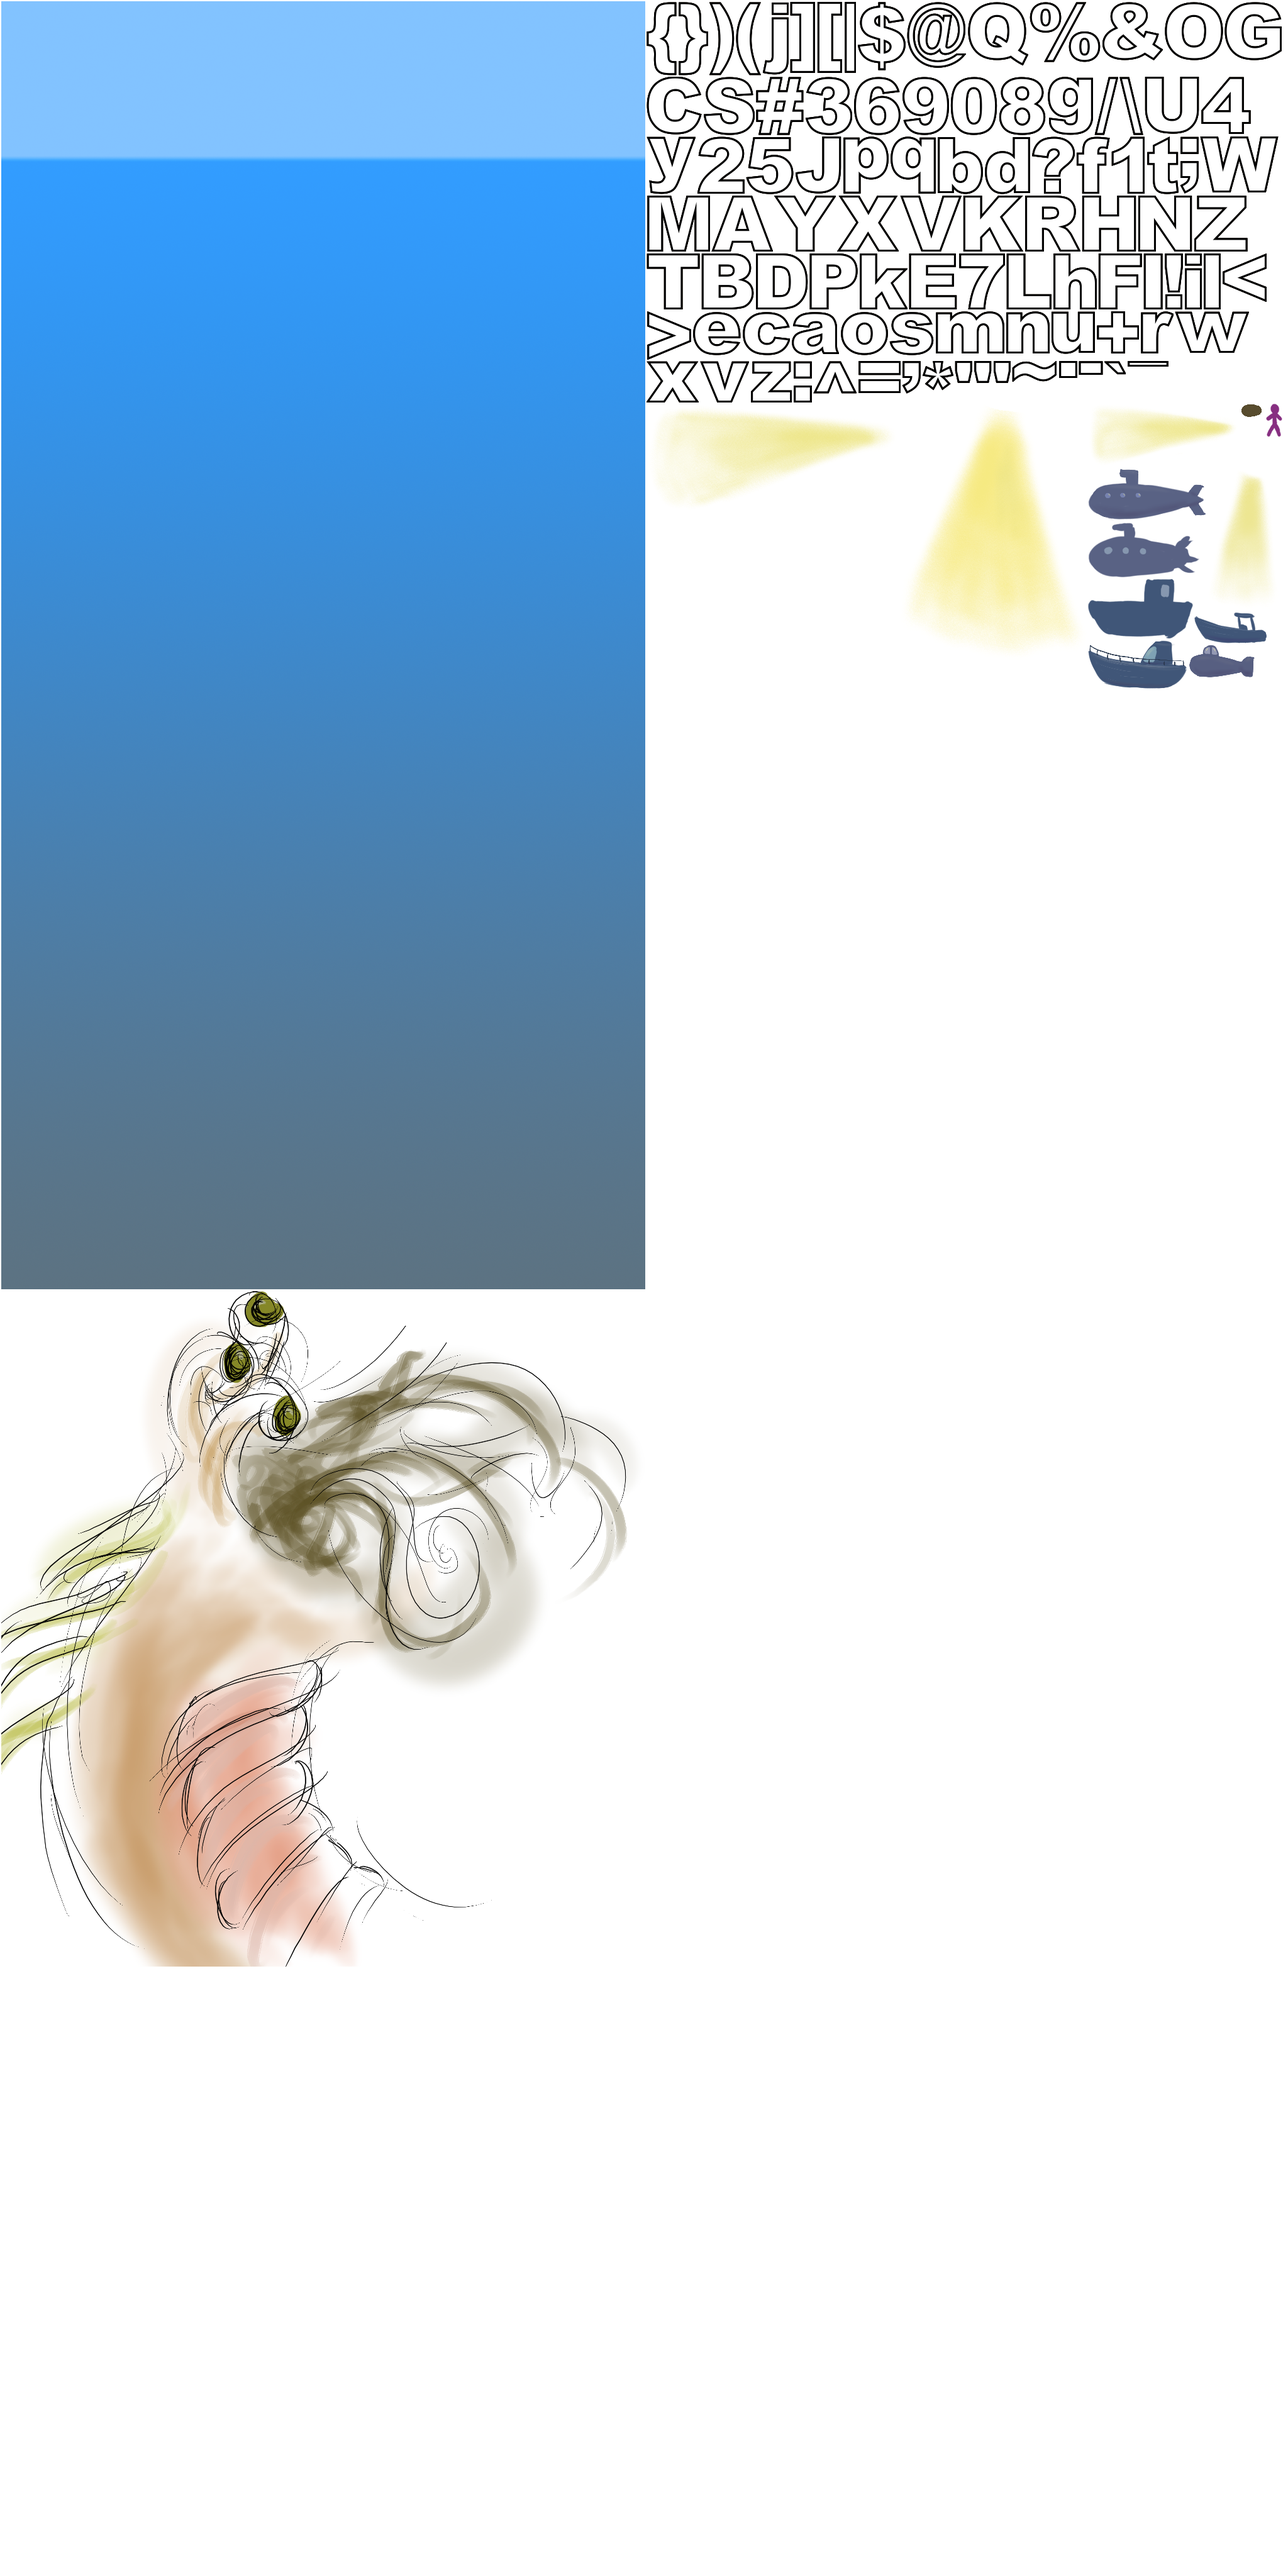
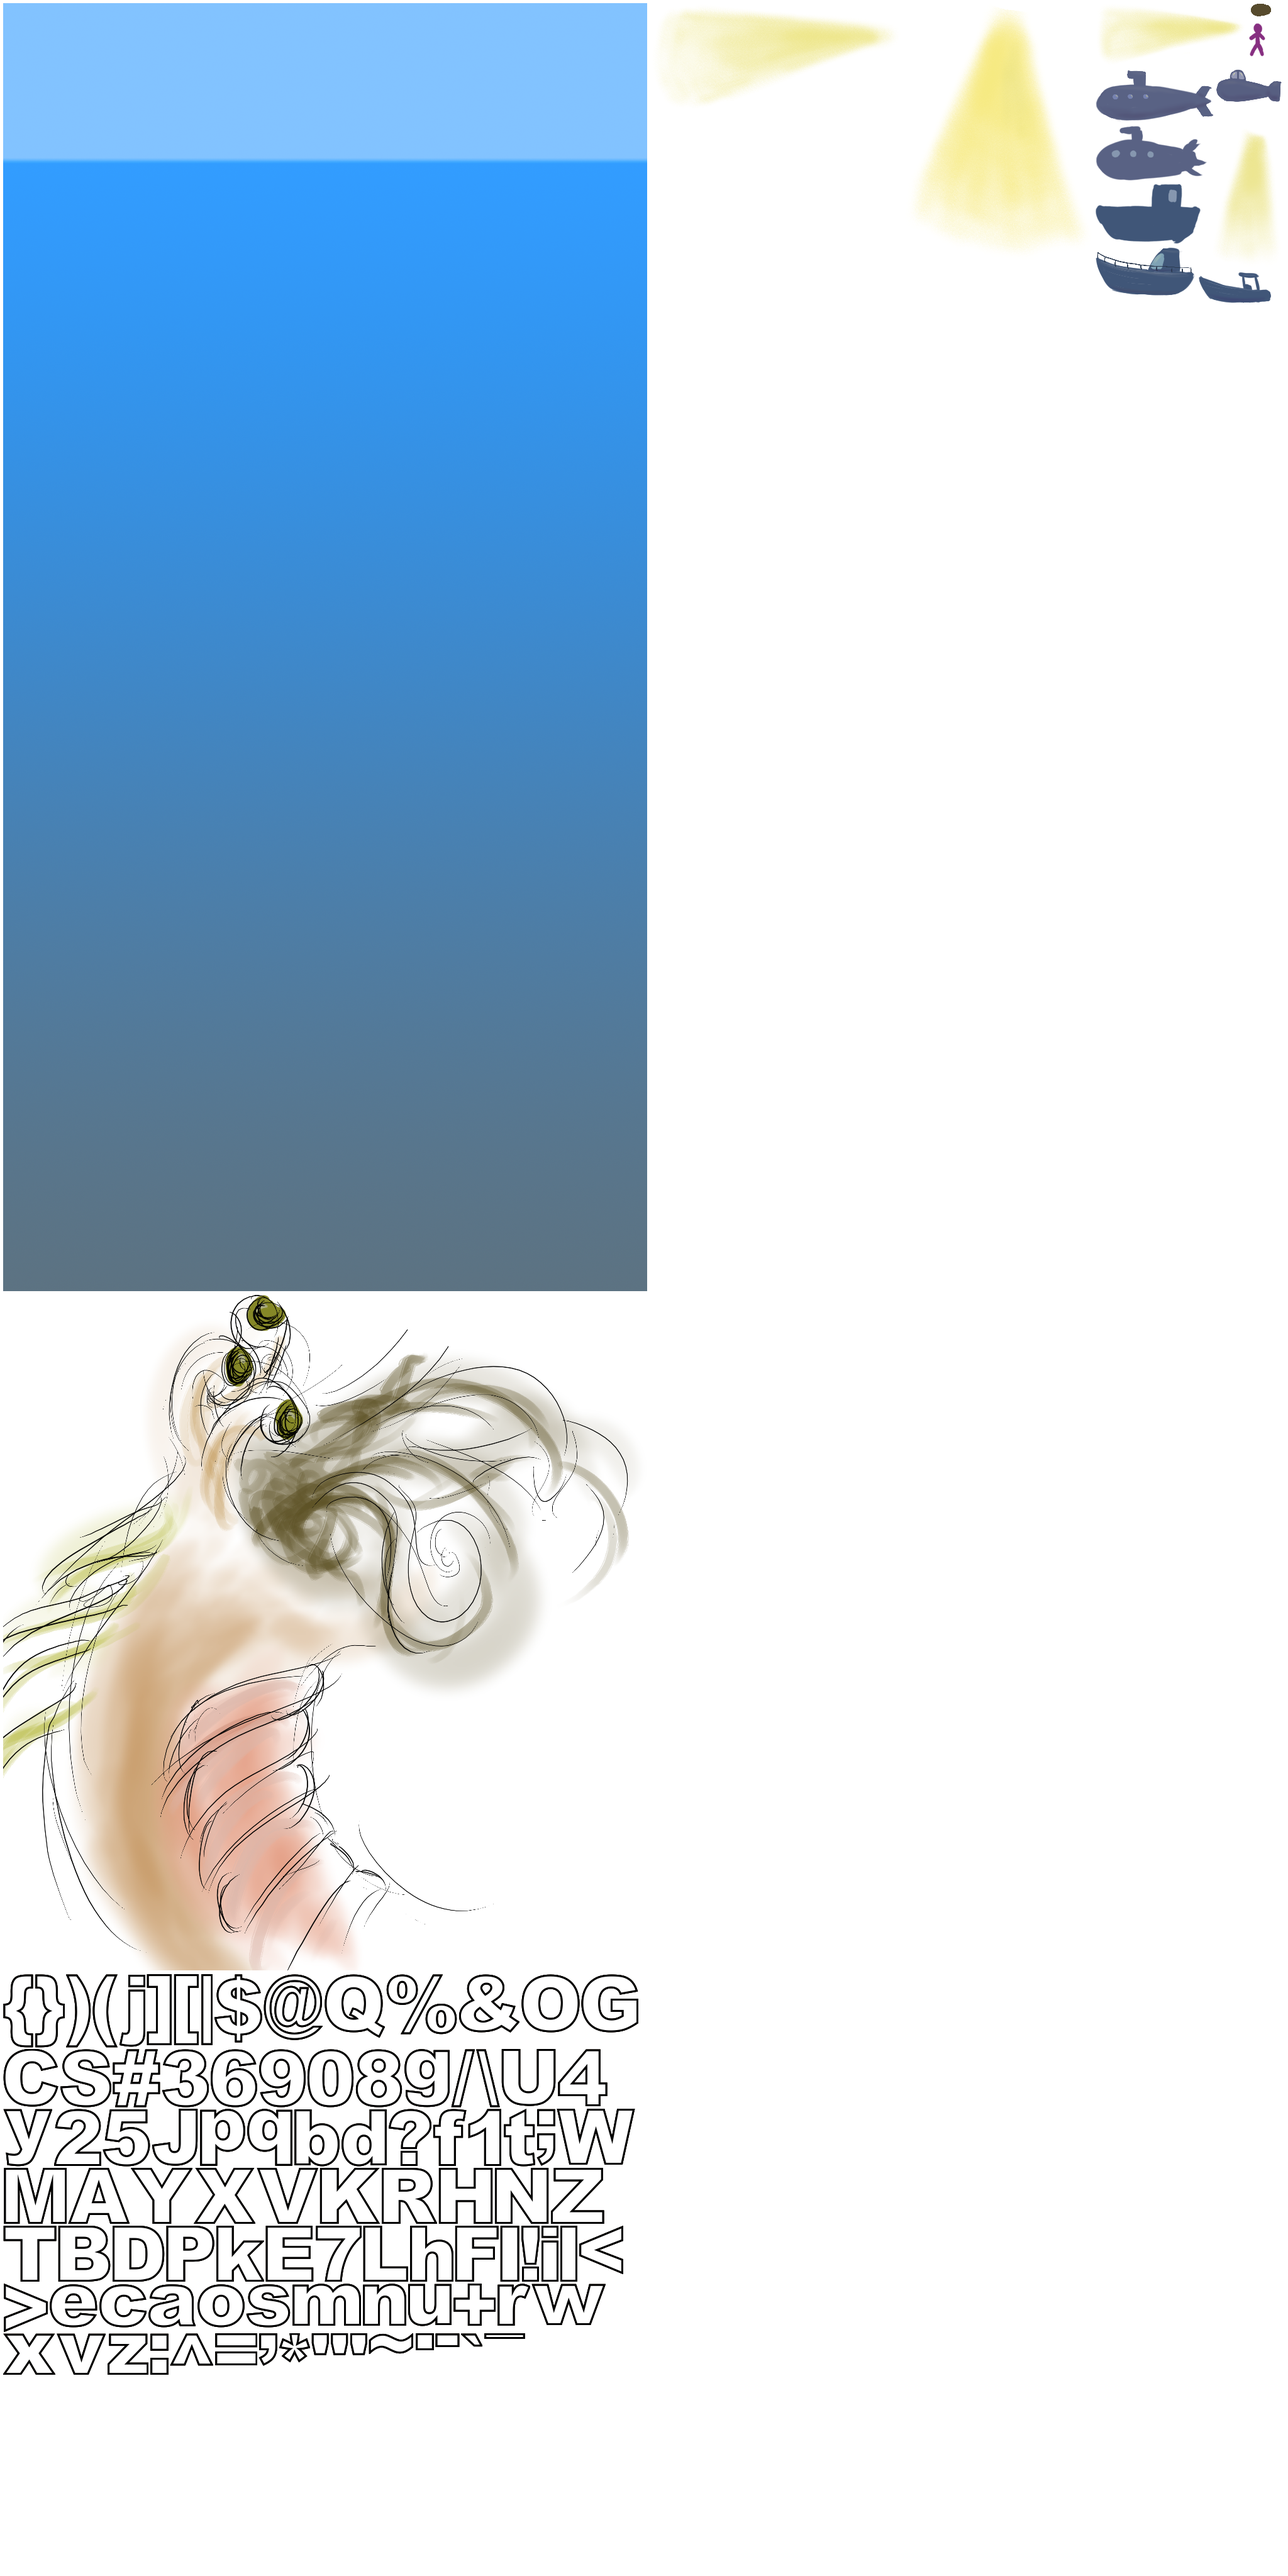
maximum tentacle length, shortened bone length

Changed region(s): [[0.0, 0.5, 0.5, 0.9375], [0.5, 0.0, 1.0, 0.2812]]

diff --git a/lake_monster_unity/Assets/Scripts/WillsLakeScreen.cs b/lake_monster_unity/Assets/Scripts/WillsLakeScreen.cs
@@ -5,7 +5,7 @@ using System.Collections.Generic;
 public class WillsLakeScreen : GameScreen, FSingleTouchableInterface
 {
 	public const float TENTACLE_GROWTH_SPEED = 0.05f;
-	public const float TENTACLE_GROWTH_RATE = 0.04f;
+	public const float TENTACLE_GROWTH_RATE = 0.03f;
 	public const float TENTACLE_MAX_TURN_ANGLE = 45f;
 
 	public List<FSprite> tentaclePieces;
@@ -63,7 +63,7 @@ public class WillsLakeScreen : GameScreen, FSingleTouchableInterface
 		lastUpdate = Time.time;
 		
 		float tip_x, tip_y;
-		float bone_length = tentacle.sourceSize.y;
+		float bone_length = tentacle.sourceSize.y * 0.8f;
 		
 		if(tentaclePieces.Count == 0)
 		{
@@ -83,22 +83,37 @@ public class WillsLakeScreen : GameScreen, FSingleTouchableInterface
 		Vector2 delta = new Vector2(lastX - tip_x, lastY - tip_y);
 		if(delta.magnitude > bone_length)
 		{
-			//add a new bone and point it at lastX/lastY
-			FSprite bone = new FSprite("tentacle");
-			AddChild(bone);
-			
-			tentaclePieces.Add(bone);
-			
-			bone.x = tip_x;
-			bone.y = tip_y;
-			bone.anchorX = 0.0f;
-			
-			UpdateTentacle();
-			
-			//y-positive, invert the y
-			float angle = Mathf.Atan2(delta.y*-1, delta.x)*RXMath.RTOD;
-			
-			bone.rotation = angle;
+			if(tentaclePieces.Count < 50)
+			{
+				//add a new bone and point it at lastX/lastY
+				FSprite bone = new FSprite("tentacle");
+				AddChild(bone);
+				
+				tentaclePieces.Add(bone);
+				bone.x = tip_x;
+				bone.y = tip_y;
+				bone.anchorX = 0.0f;
+				
+				UpdateTentacle();
+				
+				//y-positive, invert the y
+				float angle = Mathf.Atan2(delta.y*-1, delta.x)*RXMath.RTOD;
+				
+				if(tentaclePieces.Count > 1)
+				{
+					float angle_diff = angle - tentaclePieces[tentaclePieces.Count - 2].rotation;
+					while(angle_diff > 180f) angle_diff -= 360f;
+					while(angle_diff < -180f) angle_diff += 360f;
+					
+					if(Mathf.Abs (angle_diff)  > TENTACLE_MAX_TURN_ANGLE)
+					{
+						float dampening = (1 - Mathf.Abs(TENTACLE_MAX_TURN_ANGLE / angle_diff)) * angle_diff;
+						angle -= dampening;
+					}
+				}
+				
+				bone.rotation = angle;
+			}
 		}
 	}
 	
@@ -120,6 +135,7 @@ public class WillsLakeScreen : GameScreen, FSingleTouchableInterface
 		isDragging = true;
 		lastX = GetLocalTouchPosition(touch).x;
 		lastY = GetLocalTouchPosition(touch).y;
+		
 		return true;
 	}
 	
